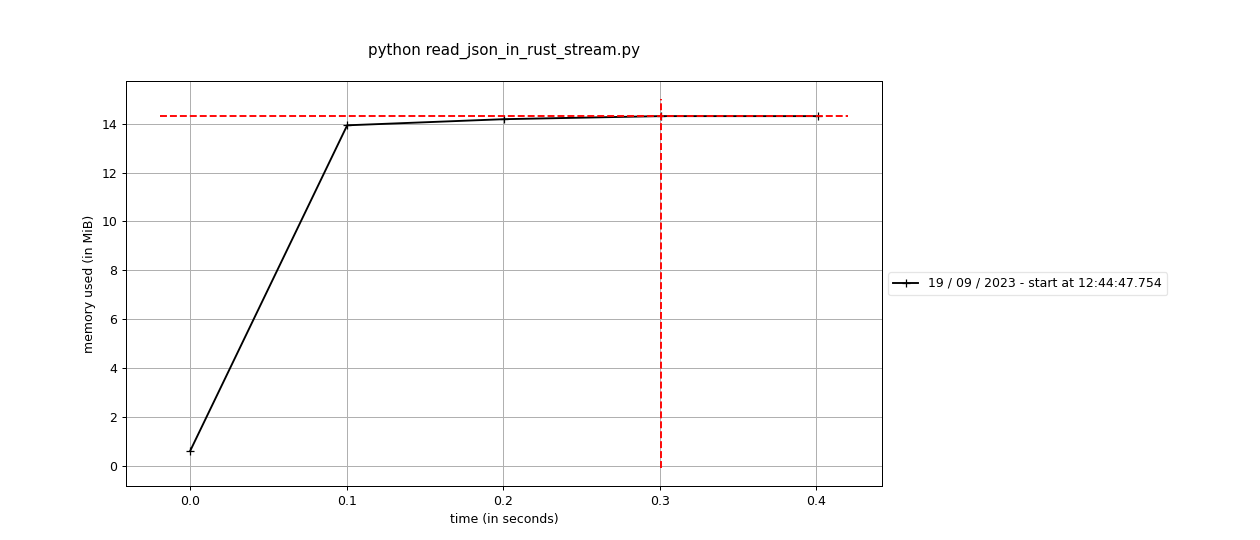
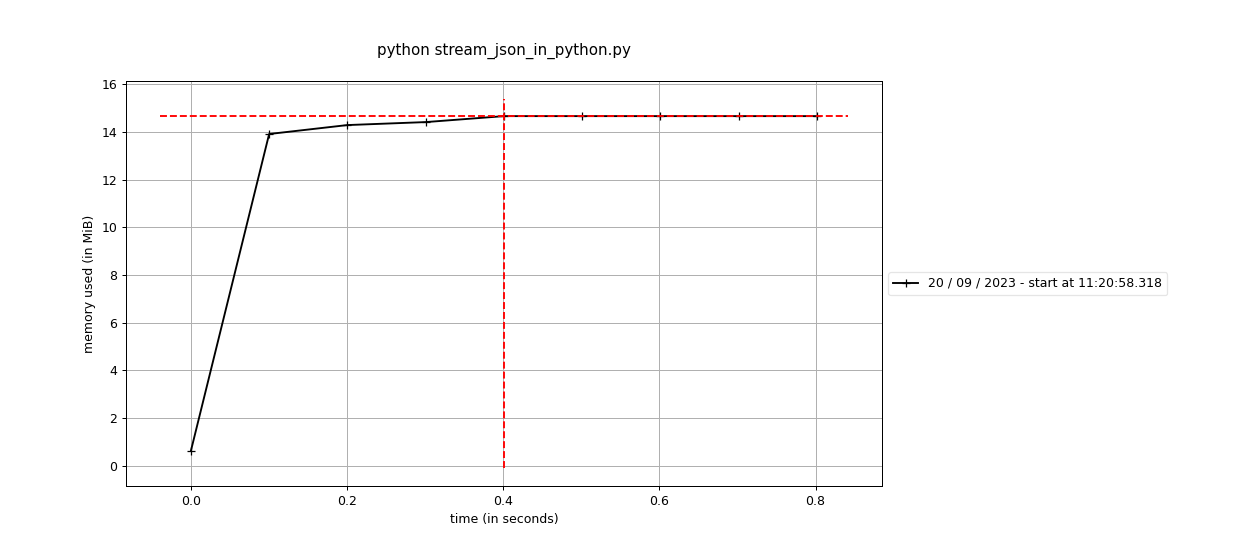
feat: add streaming version of json reading

diff --git a/read-json-in-rust/src/stream_json.rs b/read-json-in-rust/src/stream_json.rs
@@ -8,8 +8,8 @@ fn main() {
     let data_source = json_iter::load_from_file("data/skbl.json");
 
     fn doc_update(mut doc: Value) -> Value {
-        doc["_source"]["lexiconName"] = "skbl2".into();
-        doc["_source"]["lexiconOrder"] = 48.into();
+        doc["lexiconName"] = "skbl2".into();
+        doc["lexiconOrder"] = 48.into();
         doc
     }
 
@@ -19,6 +19,7 @@ fn main() {
 }
 
 pub mod json_iter {
+    use serde_json::Value;
     use std::io::BufWriter;
     use std::{fs::File, io::BufReader};
     use struson::reader::{JsonReader, JsonStreamReader};

diff --git a/read-json-in-rust/stream_json_in_python.py b/read-json-in-rust/stream_json_in_python.py
@@ -8,8 +8,8 @@ def main():
     data_source = json_iter.load_from_file("data/skbl.json")
 
     def doc_update(doc):
-        doc["_source"]["lexiconName"] = "skbl2"
-        doc["_source"]["lexiconOrder"] = 48
+        doc["lexiconName"] = "skbl2"
+        doc["lexiconOrder"] = 48
         return doc
 
     update_data = (doc_update(doc) for doc in data_source)

diff --git a/read-json-in-rust/streaming.md b/read-json-in-rust/streaming.md
@@ -1,5 +1,7 @@
 # Streaming JSON
 
+This document builds on [Read JSON in rust](./README.md).
+
 Ok, let's see how we can stream JSON documents, update them and then write them to a file.
 
 ## Python
@@ -16,12 +18,12 @@ def main():
     data_source = json_iter.load_from_file("data/skbl.json")
 
     def doc_update(doc):
-        doc["_source"]["lexiconName"] = "skbl2"
-        doc["_source"]["lexiconOrder"] = 48
+        doc["lexiconName"] = "skbl2"
+        doc["lexiconOrder"] = 48
         return doc
 
     update_data = (doc_update(doc) for doc in data_source)
-    json_iter.dump_to_file(update_data, "data/skbl2_stream.json")
+    json_iter.dump_to_file(update_data, "data/skbl2_python_stream.json")
     end = time.perf_counter()
     print(f"Elapsed time: {end-start} s")
 
@@ -35,7 +37,7 @@ The code looks pretty similar, but some stuff is hidden in `json-streams`.
 Running it gives
 ```bash
 > python stream_json_in_python.py
-Elapsed time: 0.3855921689973911 s
+Elapsed time: 0.8422206190007273 s
 ```
 
 ## Rust
@@ -59,14 +61,14 @@ We put our code in the module `json_iter`.
 -        .expect("a valid JSON file");
 -    serde_json::from_str(&content).expect("successfully parsed json")
 -}
-+pub mod json_iter { (1)
-+    pub fn load_from_file(path: &str) -> impl Iterator<Item = Value> { (2)
++pub mod json_iter { \\ (1)
++    pub fn load_from_file(path: &str) -> impl Iterator<Item = Value> { \\ (2)
 +        let file = File::open(path).expect("a valid path");
 +        let reader = BufReader::new(file);
-+        let mut json_reader = JsonStreamReader::new(reader); (3)
++        let mut json_reader = JsonStreamReader::new(reader); \\ (3)
 +
-+        json_reader.begin_array().expect("an array"); (4)
-+        std::iter::from_fn(move || { (5)
++        json_reader.begin_array().expect("an array"); \\ (4)
++        std::iter::from_fn(move || { \\ (5)
 +            if json_reader.has_next().unwrap() {
 +                let t: Value = json_reader.deserialize_next().expect("valid JSON");
 +                Some(t)
@@ -94,13 +96,13 @@ We need to update the code that updates documents:
 -    for doc in &mut data_source {
 -        doc_update(doc);
 -    }
-+    fn doc_update(mut doc: Value) -> Value { (1)
++    fn doc_update(mut doc: Value) -> Value { \\ (1)
 +        doc["_source"]["lexiconName"] = "skbl2".into();
 +        doc["_source"]["lexiconOrder"] = 48.into();
 +        doc
 +    }
 +
-+    let update_data = data_source.map(|doc| doc_update(doc)); (2)
++    let update_data = data_source.map(|doc| doc_update(doc)); \\ (2)
 ```
 
 1. We take the document by value, and passing it out again. No copy is made.
@@ -112,18 +114,17 @@ And lastly we need to update the `dump_to_file` code.
 -    let writer = BufWriter::new(File::create(path).expect("failed to create file"));
 -    serde_json::to_writer(writer, value).expect("failed to serialize json")
 -}
-+pub mod json_iter { (1)
-+    pub fn dump_to_file<I>(iter: I, path: &str) (2)
-+        I: Iterator<Item = Value>,
++pub mod json_iter { \\ (1)
++    pub fn dump_to_file<I: Iterator<Item = Value>>(iter: I, path: &str) \\ (2)
 +    {
 +        let writer = BufWriter::new(File::create(path).expect("failed to create file"));
-+        let mut json_writer = JsonStreamWriter::new(writer); (3)
-+        json_writer.begin_array().unwrap(); (4)
-+        for val in iter { (5)
++        let mut json_writer = JsonStreamWriter::new(writer); \\ (3)
++        json_writer.begin_array().unwrap(); \\ (4)
++        for val in iter { \\ (5)
 +            json_writer.serialize_value(&val).unwrap();
 +        }
-+        json_writer.end_array().unwrap(); (4)
-+        json_writer.finish_document().unwrap(); (6)
++        json_writer.end_array().unwrap(); \\ (4)
++        json_writer.finish_document().unwrap(); \\ (6)
 +    }
 +}
 ```
@@ -133,3 +134,64 @@ And lastly we need to update the `dump_to_file` code.
 4. We manually write start and end of array.
 5. We loop through the `iter` and serialize all values.
 6. We finish the document (which flushes everything).
+
+And running it gives us:
+```bash
+> cargo run --bin stream-json-in-rust --release
+    Finished release [optimized] target(s) in 0.02s
+     Running `target/release/stream-json-in-rust`
+Elapsed time 755.032685ms
+```
+
+## Analysis
+
+We can see that python makes a great improvement, from 1.79s to 0.84s, while rust runs at same speed for the BufReader version, and twice as slow as the String version.
+
+And both the streaming versions (Python & Rust) runs at the same speed.
+
+**Open question** How does this scale to larger JSON files?
+### Memory usage
+
+So let us see how the memory usage compares between Python and Rust.
+
+Memory usage for our streaming python program:
+![Memory usage for streaming python](./python_stream_memory_usage.png)
+
+Memory usage for our streaming rust program:
+![Memory usage for streaming rust](./rust_release_stream_memory_usage.png)
+
+So rust uses just above 2.5 Mb for the whole run and python uses just above 14 Mb, so here we can se rust smaller footprint.
+## Make json_iter more generic
+
+When we look at our module `json_iter` we can see that this code is quite generic and can be used in other projects, but can we make it more generic?
+
+Yes, we can change `Value` to a generic parameter `T`.
+
+We begin with `dump_to_file`:
+
+```diff
+-    pub fn dump_to_file<I: Iterator<Item = Value>>(iter: I, path: &str)
++    pub fn dump_to_file<I, T>(iter: I, path: &str) // (1)
++    where // (2)
++        I: Iterator<Item = T>, // (3)
++        T: serde::Serialize, // (4)
+    {
+```
+
+1. We add the generic parameter `T` in `<I, T>` (and move the trait restriction of I, see (3)).
+2. We add the keyword `where` to allow us to move the type restrictions here for better readability.
+3. We restricts `I` to be a `Iterator` with items `T`.
+4. The trait function we used for `Value` was `serde::Serialize`, so we require `T` to implement that.
+
+And then we continue with `load_from_file`:
+
+```diff
+-    pub fn load_from_file(path: &str) -> impl Iterator<Item = Value> {
++    pub fn load_from_file<'de, T>(path: &str) -> impl Iterator<Item = T> // (1)
++    where
++        T: serde::Deserialize<'de>, // (2)
++    {
+```
+
+1. We add a generic lifetime `'de` and a generic type `T` and require that this function will return an `Iterator` that yields `T`s.
+2. We require `T` to implement `serde::Deserialize<'de>` (yes, the trait has a lifetime to allow deserializing from borrowed data).

diff --git a/read-json-in-rust/README.md b/read-json-in-rust/README.md
@@ -778,7 +778,7 @@ We have ported a simple Python program to Rust and seen a speedup by 2.5 to 4.4 
 
 ## Next steps
 
-- We read the whole find to memory, for large files it is needed to only read a document at a time and then write the updated to a the file.
+- We read the whole find to memory, for large files it is needed to only read a document at a time and then write the updated to a the file. [Streaming tutorial](./streaming.md)
 - We read the documents as JSON value, we can also validate the data while deserializing.
 - We should handle errors better (and report them to the user).
 
